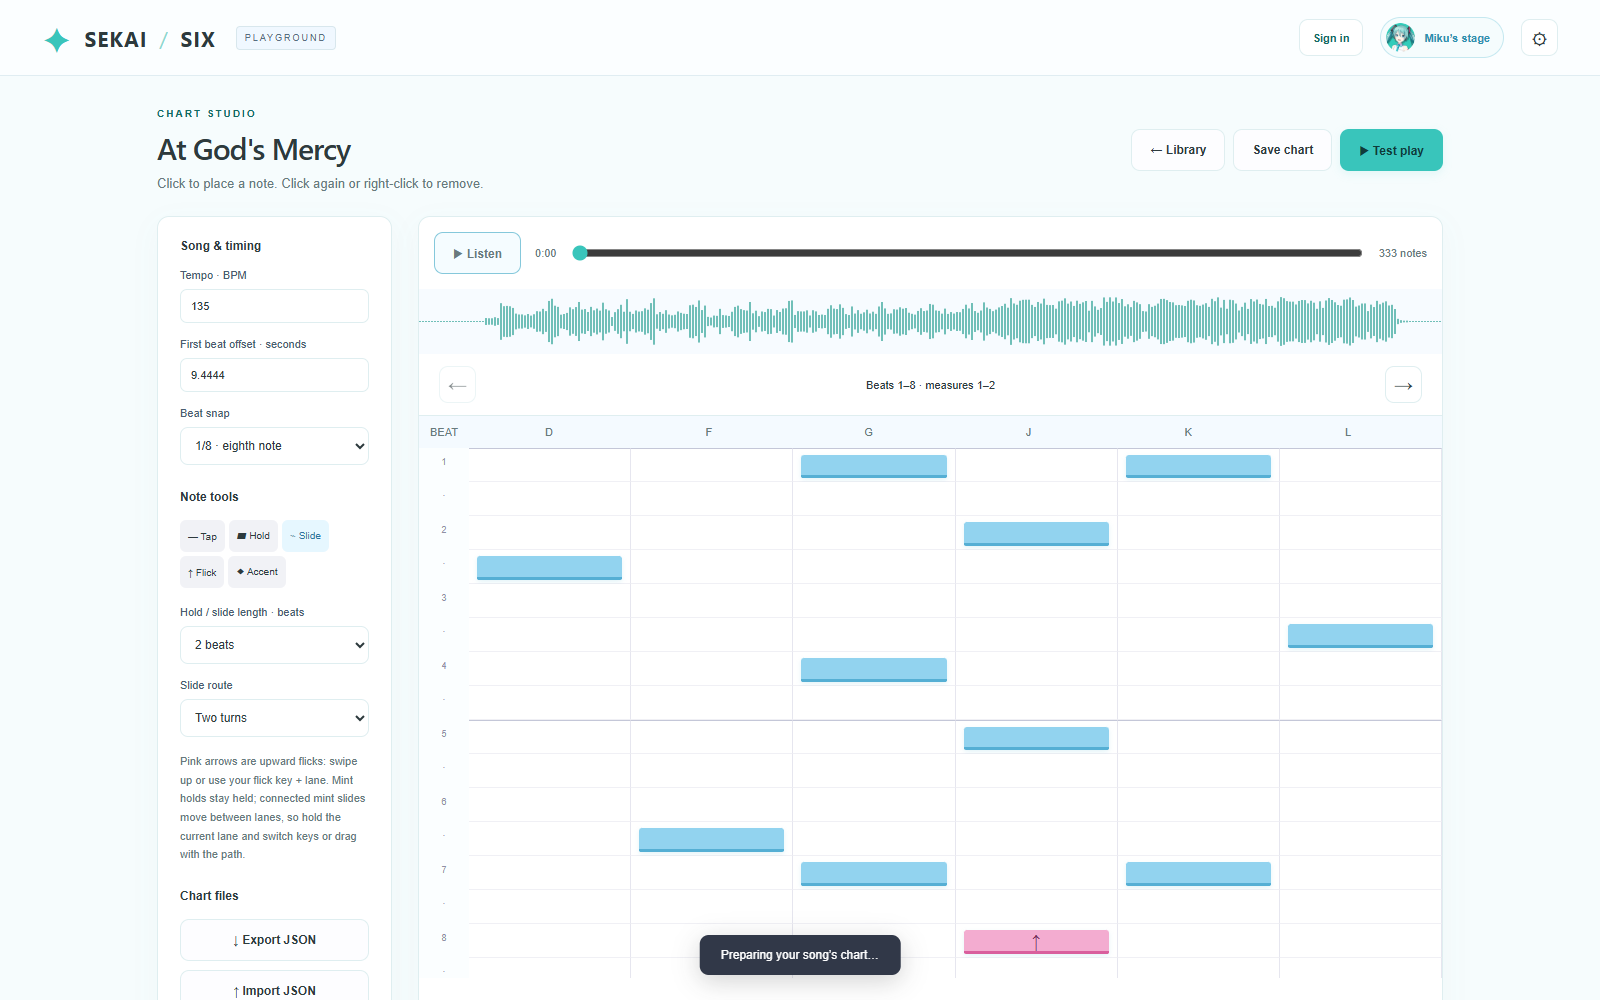
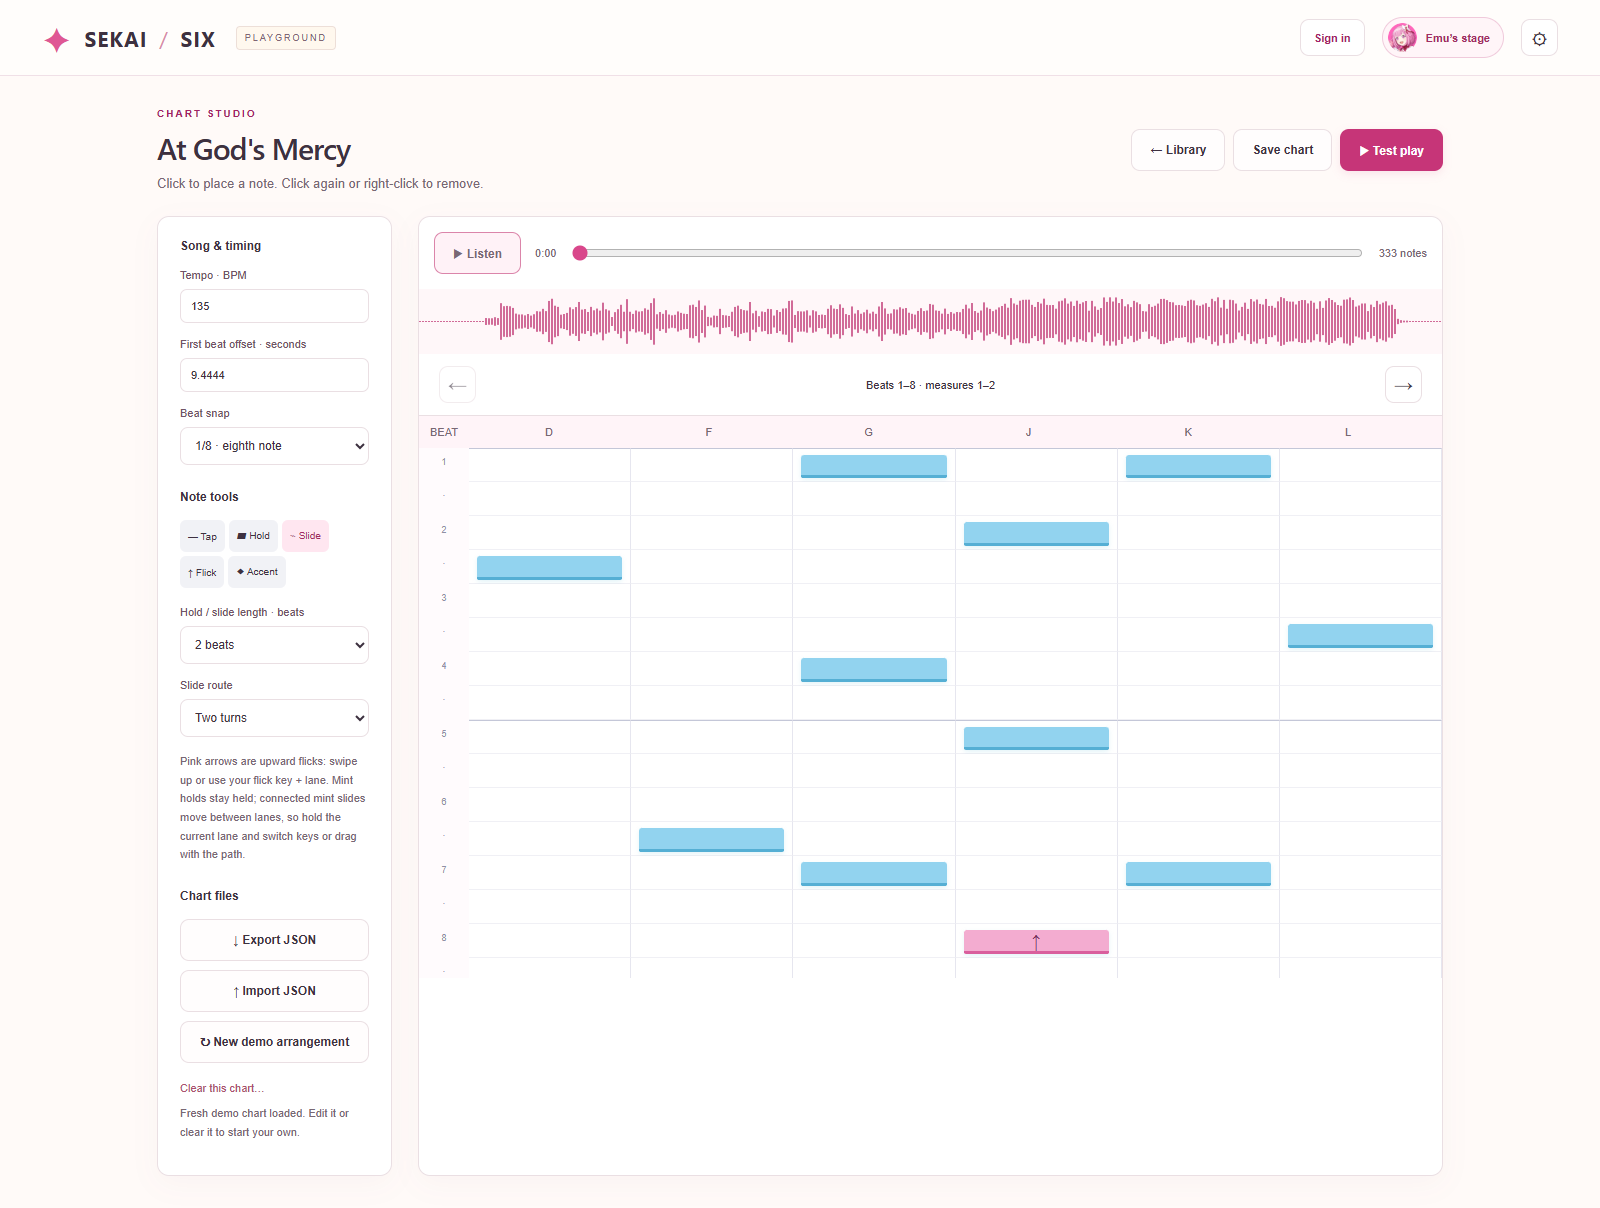
Use real Emu gameplay screenshots and simplify README gallery

diff --git a/README.md b/README.md
@@ -6,7 +6,7 @@ A personal, browser-based rhythm game inspired by Project SEKAI: a colorful song
 
 [**Play the game →**](https://sekai-six-demo.vercel.app/) · [Get started](#run-locally) · [Create a chart](#chart-studio) · [Feature gallery](#feature-gallery)
 
-![Six-lane gameplay with the new user-supplied Miku background, holds, slides, and upward flicks](docs/screenshots/game-desktop.png)
+![Emu-themed six-lane gameplay with holds, slides, and upward flicks](docs/screenshots/game-desktop.png)
 
 ## What's new
 
@@ -35,7 +35,7 @@ The charts are original, audio-informed practice arrangements—not the official
 
 ## Feature gallery
 
-Screenshots show the app with example chart and result data. Local video controls are demonstrated with an imported preview clip.
+The Emu gameplay screenshot was captured during a live song, and Chart Studio was captured from the running app. Results show example score data. Local video controls are demonstrated with an imported preview clip.
 
 ### Pick your next live
 
@@ -43,11 +43,9 @@ Browse the hosted songs, pick a difficulty, favorite a track, or open Chart Stud
 
 ![Desktop song library, song artwork, filters, difficulty selection, and track details](docs/screenshots/library-desktop.png)
 
-### Play, pause, and see your results
+### See your results
 
-| Live results | Pause and practice |
-| --- | --- |
-| ![Redesigned results with rank, score, judgments, timing, Emu card art and a reaction stamp](docs/screenshots/results-desktop.png) | ![Pause menu with resume count-in, restart, controls, and return actions](docs/screenshots/pause-desktop.png) |
+![Emu-themed results with rank, score, judgments, timing, card art and a reaction stamp](docs/screenshots/results-desktop.png)
 
 Each character has a matching illustration and celebration stamp:
 
@@ -57,13 +55,7 @@ Each character has a matching illustration and celebration stamp:
 
 Place notes against the waveform and beat grid, shape a slide route, and test the arrangement without leaving the app.
 
-![Chart Studio with slide tools, route presets, waveform, beat snapping, and export controls](docs/screenshots/editor-desktop.png)
-
-### Make it feel right
-
-| Character themes and appearance | Keyboard and flick controls | Sound and timing |
-| --- | --- | --- |
-| ![Character theme selection and stage appearance settings](docs/screenshots/themes-desktop.png) | ![Six customizable lane keys, layouts, and flick behavior](docs/screenshots/controls-desktop.png) | ![Note speed, music and hit sound volume, sound styles, timing, and practice mode](docs/screenshots/sound-desktop.png) |
+![Emu-themed Chart Studio with slide tools, route presets, waveform, beat snapping, and export controls](docs/screenshots/editor-desktop.png)
 
 ### Bring a video and keep your progress
 
@@ -72,12 +64,6 @@ Place notes against the waveform and beat grid, shape a slide route, and test th
 | <img src="docs/screenshots/video-controls.png" alt="Song panel with imported video, video toggle, and per-song delay" width="310"> | <img src="docs/screenshots/accounts.png" alt="Google and Discord sign-in dialog" width="430"> |
 
 The sign-in image shows the provider selection screen; signing in is optional for playing locally.
-
-### Smaller screen, same six lanes
-
-| Mobile library | Mobile stage | Mobile results |
-| --- | --- | --- |
-| ![Portrait music library](docs/screenshots/library-mobile.png) | ![Portrait gameplay with Miku's illustrated background](docs/screenshots/game-mobile.png) | ![Compact results with all statistics and both action buttons visible](docs/screenshots/results-mobile.png) |
 
 ## Run locally
 
